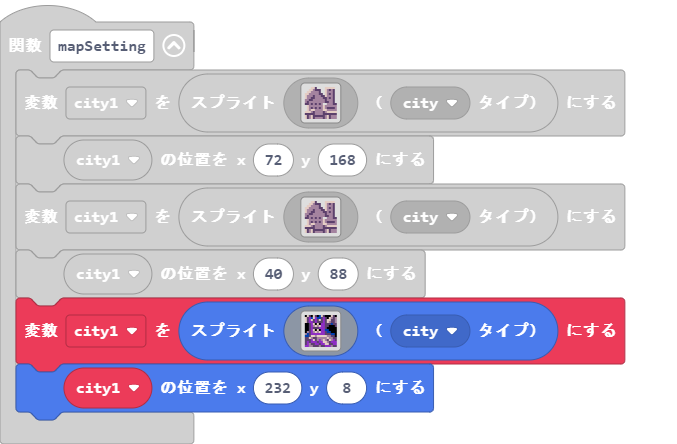
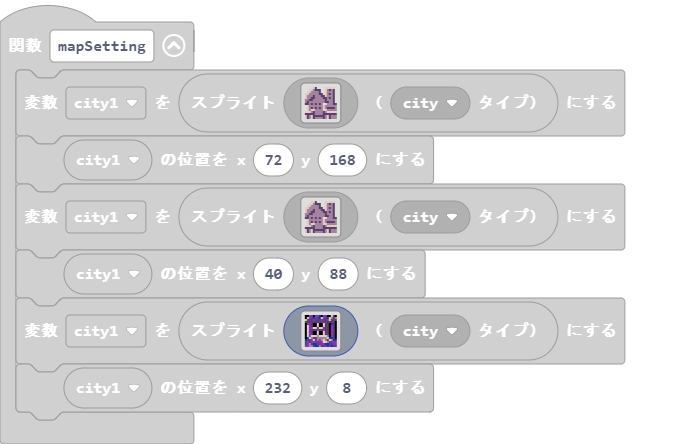
更新 main.blocks, main.ts

Changed region(s): [[0.0, 0.6441, 0.9306, 0.9662]]

diff --git a/main.ts b/main.ts
@@ -429,22 +429,22 @@ function mapSetting () {
     city1 = sprites.create(assets.tile`myTile0`, SpriteKind.city)
     city1.setPosition(40, 88)
     city1 = sprites.create(img`
-        f d c f d c f 8 d c f f f d c f 
-        d c a 8 d a 8 8 c a c f d b c b 
-        d c a d c a c d c a c d d c c b 
-        d c a a c a c c c a c d b c c b 
-        f f c a d f d f a a c c c 8 c c 
-        f f c a b d b d a a c c f f f c 
-        f f c a c c c a a a c f f f f f 
-        f f c a d f d f a a 8 8 f f f f 
-        f b c a b d b d a a c 8 8 f f f 
-        b 8 c a a a a a a a c c c 8 8 f 
-        8 8 c d d b d d d d d b b c c f 
-        c c d b c c b b b b b d b b c c 
-        c c c a d c b a b d b c d b a c 
+        f f a a f a a 8 f a a f f d c f 
+        f d a c 8 a c 8 d a c 8 d b c b 
+        d c c c a c c c a c c a d c c c 
+        c c c c c c c c c c c c c c c f 
+        f a a c f f d f f d c c f 8 c f 
+        f d a c f f d f f d c c f a c f 
+        f d a a d d c d d a c c f a c f 
+        f d a c c c a c c a c c f a c f 
+        f d a c f f d f f d c c f a c f 
+        f d a c f f d f f d c c f a c f 
+        f d a d d d b d d d d b f a c f 
+        f 8 d b c c b b b b b d 8 8 c f 
+        8 c c a d c b a b d b c d b 8 8 
         c a c a a a c a a d d b c a a a 
-        c a b c c a a c a a d d c c a a 
-        a a b b c c c b c c a a a b c c 
+        c a b c 8 8 a c a a 8 8 c c a a 
+        a a b b c 8 8 b c c a 8 a 8 c c 
         `, SpriteKind.city)
     city1.setPosition(232, 8)
 }
